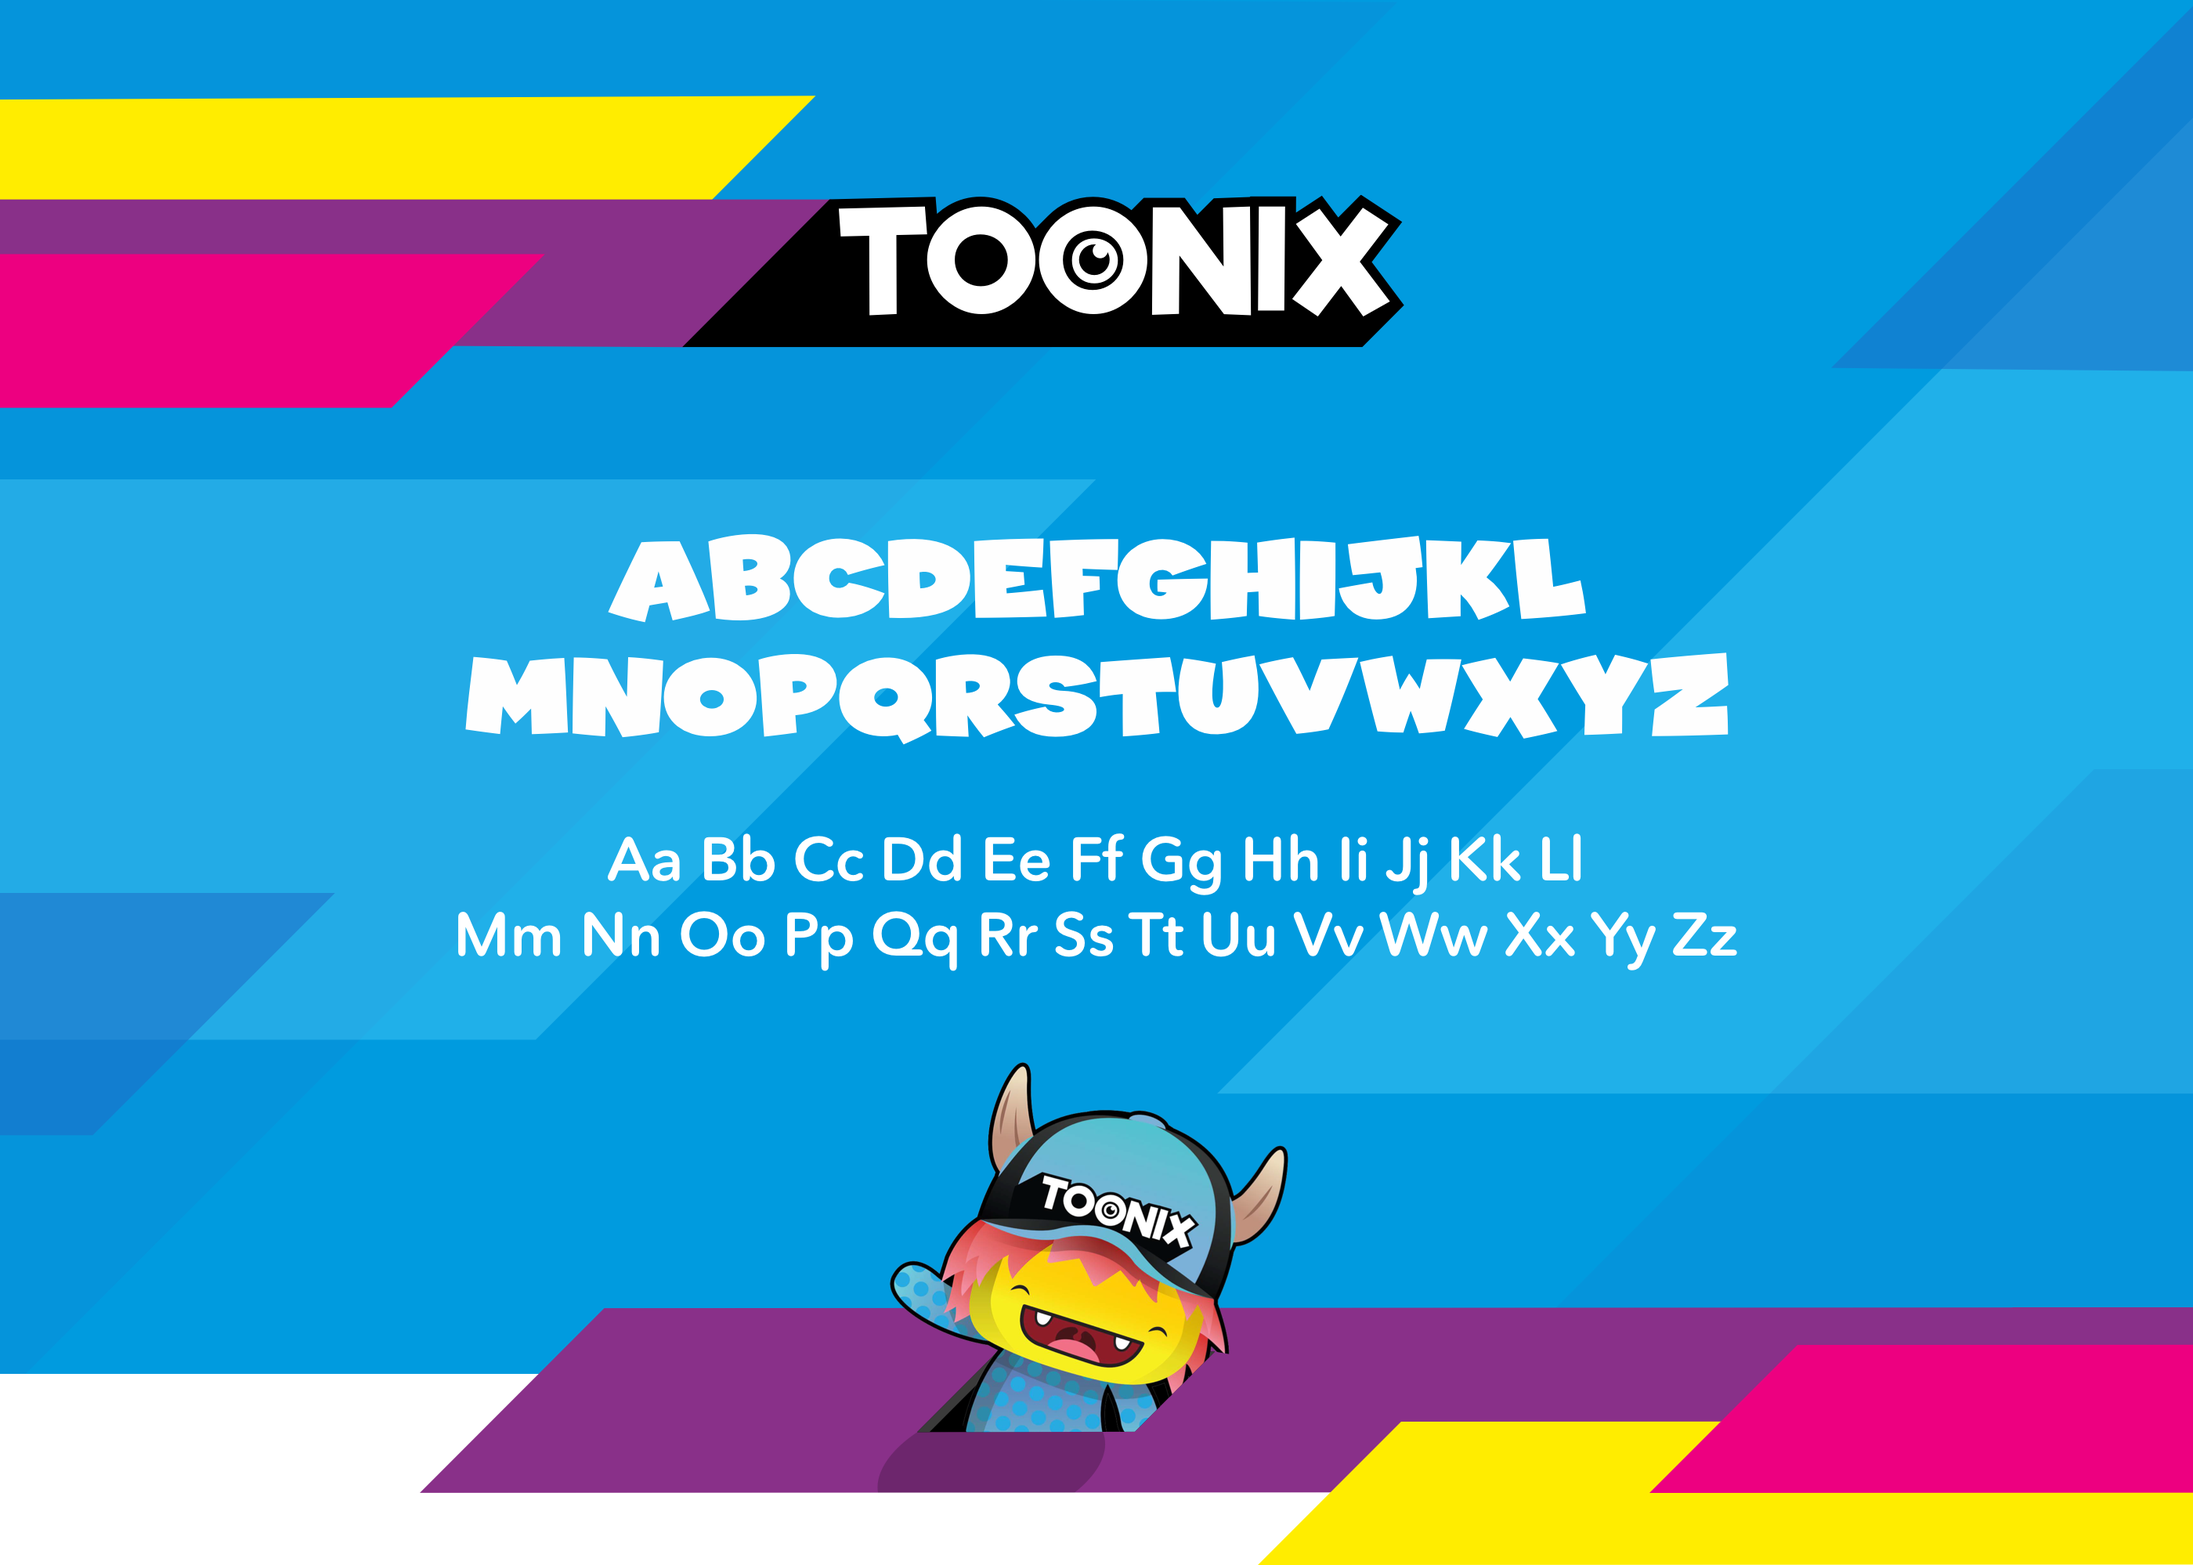
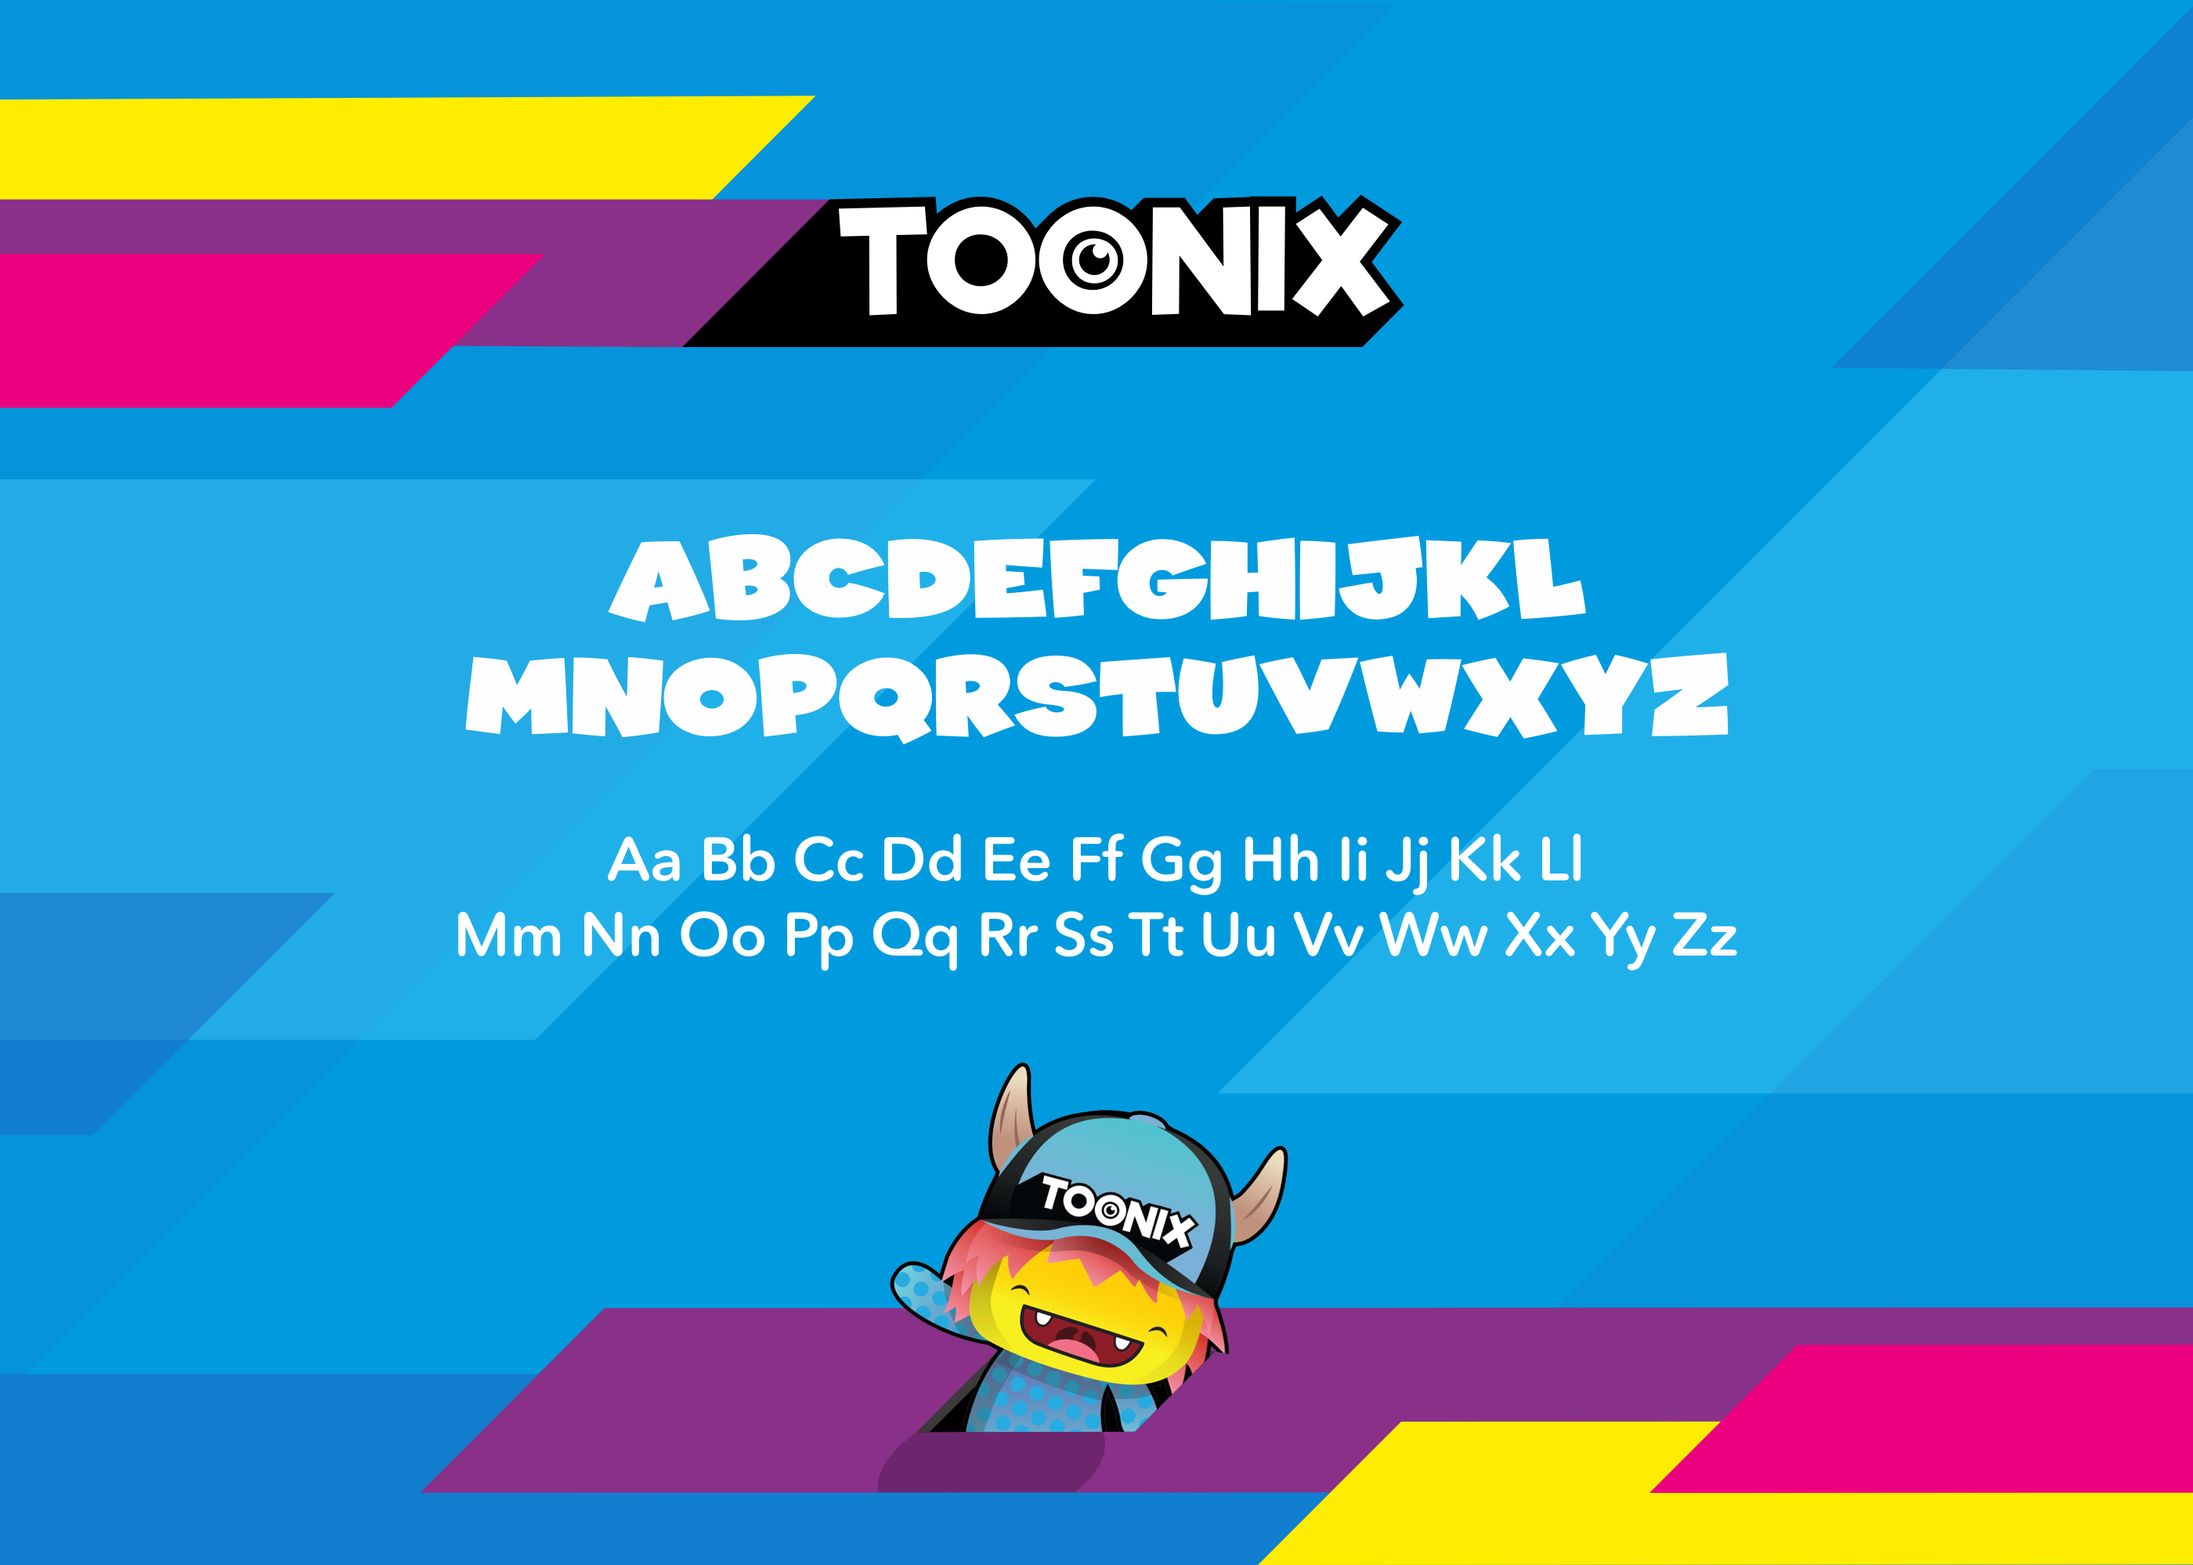
Fixed background and sports image tags

Changed region(s): [[0.0, 0.8689, 0.6214, 1.0]]

diff --git a/project-toonix.html b/project-toonix.html
@@ -27,20 +27,9 @@ layout: default
 						</div>
 					</div>
 
-			    <img src="img/toonix-2.png" alt="MYC Find a Teacher feature steps on 3 iPhones" class="flex-img">
+				<img src="img/toonix-2.png" alt="MYC parent/teacher Portal Dashboard on Macbook and iPhone" class="flex-img">
 
-			    	<div class="unit unit-xs-1 unit-s-1 unit-m-1 unit-l-1 process-padding toonix-bg-blue" >
-			          <div class="unit-spacer storypoint">
-			              <h2>Starting Base</h2>
-			              <p>Toonix had a library of content for on demand consumption accessed through a subscription package. The suite of content includes games (web based), TV Series, clips and movies that were all family friendly. The client’s team shared key takeaways from their extensive customer research and primary business goals. As the creative lead, I led a brainstorm workshop with members of our team and the client’s team to establish the baseline requirements for the app experience and registration process.</p>
-
-										<p>The client already had a brand style guide set for the mobile app and website. They wanted to maintain consistency within their digital products but had no specifications around 10ft platforms. We needed to take the current brand and expand it to TV.</p>
-			          </div>
-			        </div>
-
-				<img src="img/toonix-3.png" alt="MYC parent/teacher Portal Dashboard on Macbook and iPhone" class="flex-img">
-
-					<div class="unit unit-xs-1 unit-s-1 unit-m-1 unit-l-1 process-padding toonix-bg-grey" >
+					<div class="unit unit-xs-1 unit-s-1 unit-m-1 unit-l-1 process-padding toonix-bg-blue toonix-bg-dark" >
 			          <div class="unit-spacer storypoint">
 			              <h2>Preliminary POC</h2>
 			              <p>Before kicking off the official project, we had completed a smaller version of the app delivered as a proof of concept (POC) project. The main purpose for the POC was to establish backend integrations and prove the technical feasibility with our engine. We took the opportunity to establish a character animation strategy that could be dynamic and scalable for the future. I worked closely with the motion designers and developers to find a solution for how multiple characters could be built and animated across multiple screens with different animations — all within our scope and timeline. The POC was a success and we won the business for the main project. We took what we learned and expanded the ideas into the official project, including our character animation strategy.</p>
@@ -49,7 +38,7 @@ layout: default
 			          </div>
 			        </div>
 
-				<img src="img/toonix-4.png" alt="MYC Teacher public profile page in desktop size" class="flex-img">
+				<img src="img/toonix-3.png" alt="MYC Teacher public profile page in desktop size" class="flex-img">
 
 					<div class="unit unit-xs-1 unit-s-1 unit-m-1 unit-l-1 process-padding toonix-bg-whiteff" >
 			          <div class="unit-spacer storypoint">
@@ -58,7 +47,7 @@ layout: default
 			          </div>
 			        </div>
 
-				<img src="img/toonix-5.png" alt="MYC Parent's portal screens for course details and private profile" class="flex-img">
+				<img src="img/toonix-4.png" alt="MYC Parent's portal screens for course details and private profile" class="flex-img">
 
 					<div class="unit unit-xs-1 unit-s-1 unit-m-1 unit-l-1 process-padding toonix-bg-grey" >
 			          <div class="unit-spacer storypoint">
@@ -66,20 +55,29 @@ layout: default
 			          </div>
 			        </div>
 
-				<img src="img/toonix-6.png" alt="MYC interior program web page design in desktop size" class="flex-img">
+				<img src="img/toonix-5.png" alt="MYC interior program web page design in desktop size" class="flex-img">
 
-							<div class="unit unit-xs-1 unit-s-1 unit-m-1 unit-l-1 process-padding toonix-bg-white" >
+							<div class="unit unit-xs-1 unit-s-1 unit-m-1 unit-l-1 process-padding toonix-bg-blue" >
 								<div class="unit-spacer storypoint">
 										<p>We were designing a whole new website for adults with registration and account management while designing and building a video app for kids at the same time. As lead designer, I was managing different team members on both projects. Both the app and the website needed to have consistent designs but be tailored for each of our target user’s experience.</p>
 								</div>
 							</div>
 
-				<img src="img/toonix-7.png" alt="MYC responsive showcase screens showing the website design on iMac, iPad, iPhone and Macbook" class="flex-img">
+				<img src="img/toonix-6.png" alt="MYC responsive showcase screens showing the website design on iMac, iPad, iPhone and Macbook" class="flex-img">
 
-							<div class="unit unit-xs-1 unit-s-1 unit-m-1 unit-l-1 process-padding toonix-bg-grey" >
+							<div class="unit unit-xs-1 unit-s-1 unit-m-1 unit-l-1 process-padding toonix-bg-blue" >
 								<div class="unit-spacer storypoint">
 										<h2>The Solution</h2>
 										<p>From the initial brand, we set out to build a full set of user interface components and style sheets that would be used for the app and website designs. We used Sketch for wireframes and visual designs. For the app experience, the motion designers use  Adobe After Effects combined with our product workflow to animate and build components of the screen. For the website, we used Zeplin to translate our design files into developer friendly annotated screens. Both had clickable prototypes,  documentation to support the user flow and interaction functionalities and an establish pattern library.</p>
+								</div>
+							</div>
+
+					<img src="img/toonix-7.png" alt="MYC responsive showcase screens showing the website design on iMac, iPad, iPhone and Macbook" class="flex-img">
+
+							<div class="unit unit-xs-1 unit-s-1 unit-m-1 unit-l-1 process-padding toonix-bg-white" >
+								<div class="unit-spacer storypoint">
+										<h2>Pick Your Toonix</h2>
+										<p>For better personalization, our solution was to let each child favourite a Toonix character that would follow them through the app. Each character expressed their own sense of personality through their appearance and customized animations. Each user would create a profile and get to choose their very own Toonix character. Registration and profile creation was done through the website only as a safe guard for parents to control the age associated with the profile. This would allow for content restrictions based on recommended age ratings. The overall app experience would change based on which user was watching.  However, user testing showed great value for kids to be able to pick or change their Toonix character. This feature was brought into the app experience as well.</p>
 								</div>
 							</div>
 
@@ -87,13 +85,14 @@ layout: default
 
 					<div class="unit unit-xs-1 unit-s-1 unit-m-1 unit-l-1 process-padding toonix-bg-white" >
 						<div class="unit-spacer storypoint">
+								<h2>Flexible Layouts</h2>
 								<p>Keeping the brand’s key theme of personalization, we opted to have our users land on a curated home lander first. The content displayed is based off the age of the child — a 4 year old’s favourite cartoon varies quite drastically from an 8 year old. We established 3 other landing pages to filter content by TV Series, Movies or Games.</p>
 						</div>
 					</div>
 
 			<img src="img/toonix-9.png" alt="MYC responsive showcase screens showing the website design on iMac, iPad, iPhone and Macbook" class="flex-img">
 
-					<div class="unit unit-xs-1 unit-s-1 unit-m-1 unit-l-1 process-padding toonix-bg-white" >
+					<div class="unit unit-xs-1 unit-s-1 unit-m-1 unit-l-1 process-padding toonix-bg-blue" >
 						<div class="unit-spacer storypoint">
 								<p>Toonix characters have a prominent placement on the lander screens. Each one has a set of animations tailored to each of their personalities. We first established individual characteristics which would feed into our choice of movements. Each character had a custom in/out animation for the landers. As an extra interaction, we made the characters into buttons so that they would react if users tapped on their Toonix.</p>
 						</div>
@@ -120,7 +119,8 @@ layout: default
 
 					<div class="unit unit-xs-1 unit-s-1 unit-m-1 unit-l-1 process-padding toonix-bg-white" >
 						<div class="unit-spacer storypoint">
-								<p>Toonix is available for download in the Nordic region – Sweden, Denmark, Norway and Finland — in both local languages and in English. Please note that the home page of the website is designed and maintained by Toonix’s internal marketing team. All other pages were designed with my art direction. To see the live website or download the app, please visit:</p>
+								<p>Toonix is available for download in the Nordic region – Sweden, Denmark, Norway and Finland — in both local languages and in English. Please note that the home page of the website is designed and maintained by Toonix’s internal marketing team. All other pages were designed with my art direction. To see the live website or download the app, please visit: <a target="_blank" href="https://www.toonix.com">toonix.com</a> or <a target="_blank" href="https://itunes.apple.com/dk/app/toonix-series-movies-games/id1380790385?mt=8">the App Store</a></p>
+
 						</div>
 					</div>
 

diff --git a/project-sports.html b/project-sports.html
@@ -16,7 +16,7 @@ layout: default
 			          </div>
 			        </div>
 
-				<img src="img/sports-1.png" alt="MYC home page on an iMac" class="flex-img">
+				<img src="img/sports-1.png" alt="Sports app TV user interface of Deep Dive screen" class="flex-img">
 
 					<div class="unit unit-xs-1 unit-s-1 unit-m-1 unit-l-1 process-padding sports-bg-white" >
 			          <div class="unit-spacer storypoint">
@@ -24,7 +24,7 @@ layout: default
 			          </div>
 			        </div>
 
-			    <img src="img/sports-2.png" alt="MYC Find a Teacher feature steps on 3 iPhones" class="flex-img">
+			    <img src="img/sports-2.png" alt="Remote control for Android TV and Apple TV" class="flex-img">
 
 			    	<div class="unit unit-xs-1 unit-s-1 unit-m-1 unit-l-1 process-padding sports-bg-blue" >
 			          <div class="unit-spacer storypoint">
@@ -35,7 +35,7 @@ layout: default
 			          </div>
 			        </div>
 
-				<img src="img/sports-3.png" alt="MYC parent/teacher Portal Dashboard on Macbook and iPhone" class="flex-img">
+				<img src="img/sports-3.png" alt="Sports app brand elements" class="flex-img">
 
 					<div class="unit unit-xs-1 unit-s-1 unit-m-1 unit-l-1 process-padding sports-bg-grey" >
 			          <div class="unit-spacer storypoint">
@@ -46,7 +46,7 @@ layout: default
 			          </div>
 			        </div>
 
-				<img src="img/sports-4.png" alt="MYC Teacher public profile page in desktop size" class="flex-img">
+				<img src="img/sports-4.png" alt="Four TV user interface screens from the POC" class="flex-img">
 
 					<div class="unit unit-xs-1 unit-s-1 unit-m-1 unit-l-1 process-padding sports-bg-whiteff" >
 			          <div class="unit-spacer storypoint">
@@ -57,7 +57,7 @@ layout: default
 			          </div>
 			        </div>
 
-				<img src="img/sports-5.png" alt="MYC Parent's portal screens for course details and private profile" class="flex-img">
+				<img src="img/sports-5.png" alt="User flows graphics" class="flex-img">
 
 					<div class="unit unit-xs-1 unit-s-1 unit-m-1 unit-l-1 process-padding sports-bg-grey" >
 			          <div class="unit-spacer storypoint">
@@ -68,7 +68,7 @@ layout: default
 			          </div>
 			        </div>
 
-				<img src="img/sports-6.png" alt="MYC interior program web page design in desktop size" class="flex-img">
+				<img src="img/sports-6.png" alt="Four wireframe screens for the TV user interface's main sections" class="flex-img">
 
 							<div class="unit unit-xs-1 unit-s-1 unit-m-1 unit-l-1 process-padding sports-bg-white" >
 								<div class="unit-spacer storypoint">
@@ -79,7 +79,7 @@ layout: default
 								</div>
 							</div>
 
-				<img src="img/sports-7.png" alt="MYC responsive showcase screens showing the website design on iMac, iPad, iPhone and Macbook" class="flex-img">
+				<img src="img/sports-7.png" alt="TV user interface for the Sports App menu screen, player and deep dive" class="flex-img">
 
 							<div class="unit unit-xs-1 unit-s-1 unit-m-1 unit-l-1 process-padding sports-bg-grey" >
 								<div class="unit-spacer storypoint">
@@ -88,7 +88,7 @@ layout: default
 								</div>
 							</div>
 
-					<img src="img/sports-8.png" alt="MYC responsive showcase screens showing the website design on iMac, iPad, iPhone and Macbook" class="flex-img">
+					<img src="img/sports-8.png" alt="Four different versions of the menu screen" class="flex-img">
 
 					<div class="unit unit-xs-1 unit-s-1 unit-m-1 unit-l-1 process-padding sports-bg-white" >
 						<div class="unit-spacer storypoint">
@@ -99,7 +99,7 @@ layout: default
 						</div>
 					</div>
 
-			<img src="img/sports-9.png" alt="MYC responsive showcase screens showing the website design on iMac, iPad, iPhone and Macbook" class="flex-img">
+			<img src="img/sports-9.png" alt="Screens from the app with sponsorship placements" class="flex-img">
 
 
 

diff --git a/_includes/css/general.css b/_includes/css/general.css
@@ -532,11 +532,25 @@ transform:translatey(0);
 }
 
 .toonix-bg-white {
-	background-color: #EAEAE5;
+	background-color: #F5F5F5;
+}
+
+.toonix-bg-white a {
+	color: #10bd8f;
+	text-decoration: underline;
+	font-weight: bolder;
+}
+
+.toonix-bg-white a:hover {
+	text-decoration: none;
 }
 
 .toonix-bg-blue {
 	background-color: #009BDF;
+}
+
+.toonix-bg-dark {
+	background-color: #127ED0;
 }
 
 .toonix-bg-blue h2 {
